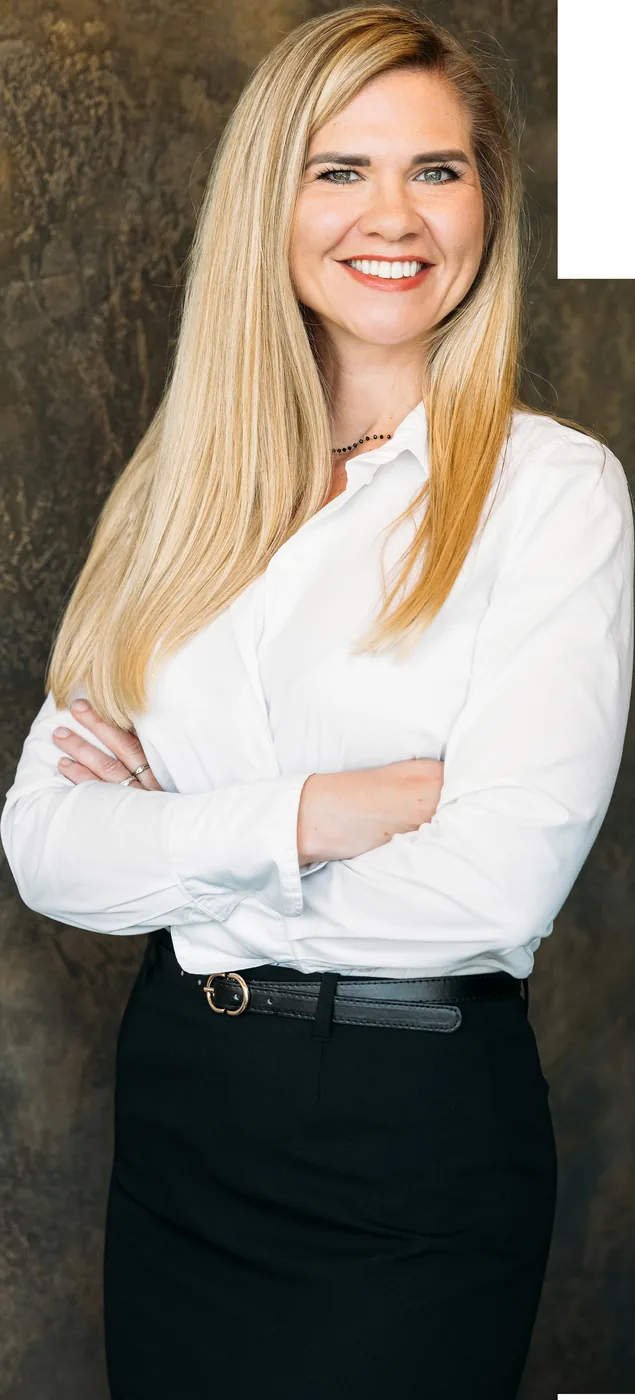
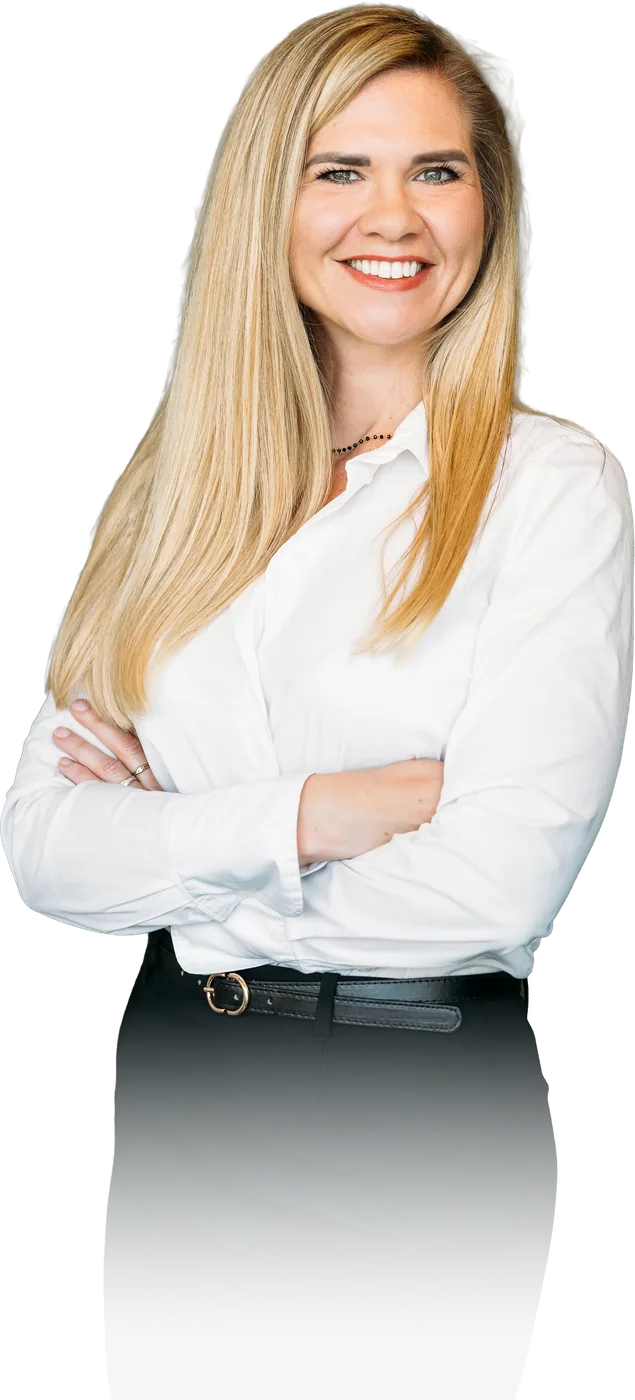
fix: hero-photo průhlednost, Instagram handle

diff --git a/components/sections/Blog.tsx b/components/sections/Blog.tsx
@@ -257,7 +257,7 @@ export default async function Blog() {
                 </div>
                 <div>
                   <p style={{ color: "#fff", fontWeight: 700, fontSize: 14, marginBottom: 2 }}>
-                    @pavla.kubesova.reality
+                    @pavlakubesova.bidli
                   </p>
                   <p style={{ color: "#9AA0B2", fontSize: 12 }}>
                     Sledujte tipy a aktuální nabídky